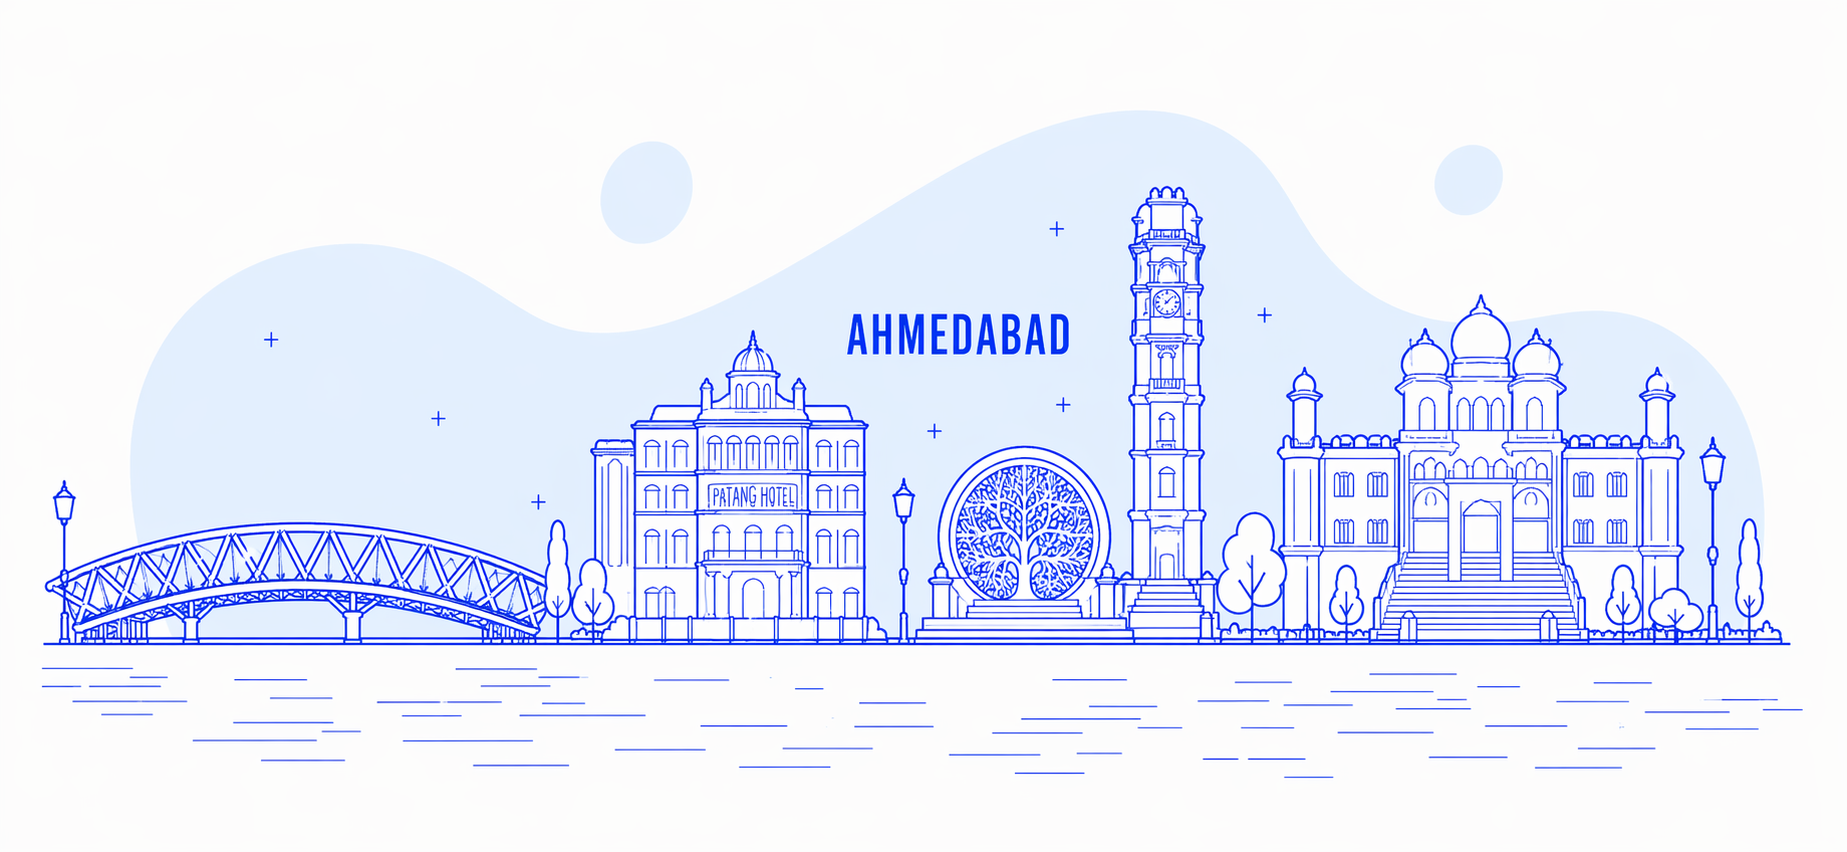
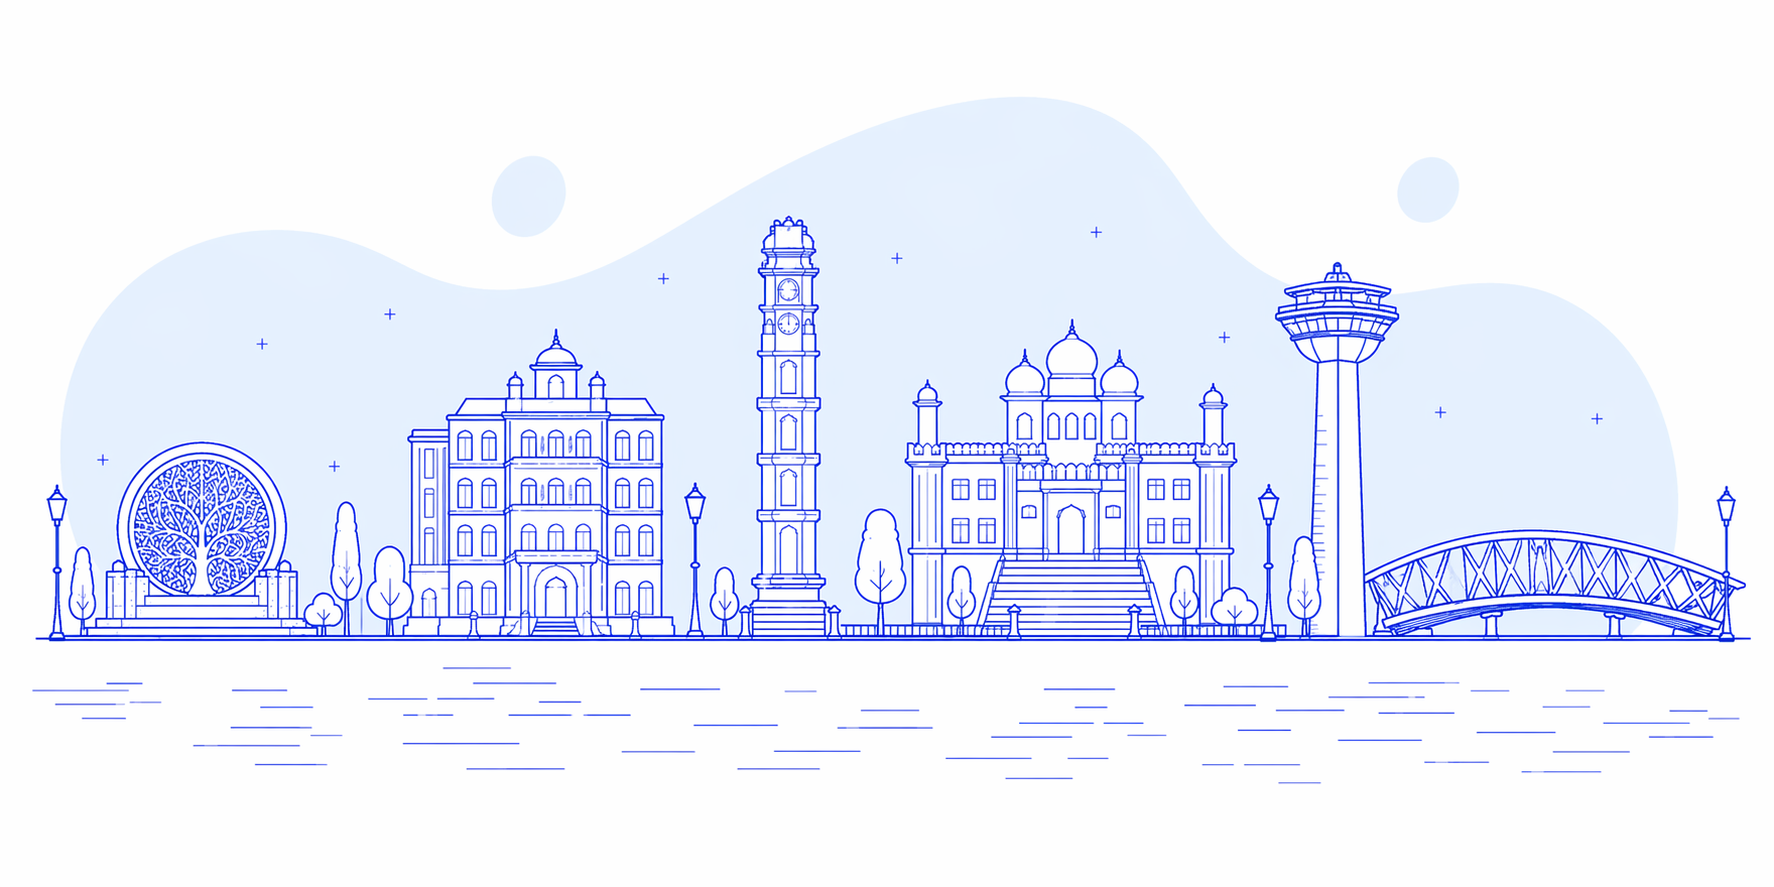
UI/UX consistency pass — 21 changes
- New Ahmedabad skyline background with mix-blend-mode:multiply
- Removed 130-line hidden legacy SVG block
- Language consistency: all section headings/CTAs/subtitles standardised to English
- Plan CTAs: Hinglish → Start Trial / Get 26-Day Plan / Get 60-Day Plan
- CTA section: fully English copy + Subscribe Now button
- Why/Health/How sections: headings and subtitles in English
- Certified Paneer consistent in plan features + FAQ
- Removed *Single meal ₹239 footnote from plans
- Footer logo: object-fit:contain with white background
- Order via → Order Via

diff --git a/index.html b/index.html
@@ -124,11 +124,13 @@
     }
     .hero-cityscape {
       position: absolute; bottom: 0; left: 0; right: 0;
-      width: 100%; height: 220px;
+      width: 100%; height: 240px;
       pointer-events: none; z-index: 0;
-      opacity: 0.42;
+      opacity: 0.48;
       object-fit: cover;
-      filter: hue-rotate(-80deg) saturate(0.8) brightness(1.1);
+      object-position: center bottom;
+      mix-blend-mode: multiply;
+      filter: hue-rotate(-75deg) saturate(0.7) brightness(1.05);
     }
     .hero-content { position: relative; z-index: 1; }
     .hero-badge-pill { display: inline-flex; align-items: center; gap: 0.5rem; background: var(--saffron-lt); color: var(--green-deep); font-size: 0.72rem; font-weight: 700; letter-spacing: 0.08em; text-transform: uppercase; padding: 0.35rem 1rem; border-radius: var(--radius-pill); margin-bottom: 1.3rem; }
@@ -364,7 +366,7 @@
     footer { background: var(--charcoal); color: rgba(255,255,255,.5); padding: 3.5rem 4rem 0; }
     .footer-inner { display: flex; flex-wrap: wrap; gap: 3rem; justify-content: space-between; padding-bottom: 3rem; }
     .footer-brand { max-width: 240px; }
-    .footer-brand img { height: 58px; width: 58px; border-radius: 50%; object-fit: cover; margin-bottom: 0.9rem; }
+    .footer-brand img { height: 58px; width: 58px; border-radius: 50%; object-fit: contain; background: white; margin-bottom: 0.9rem; }
     .footer-brand-name { font-family: 'Playfair Display SC', serif; color: var(--green-fresh); font-size: 1rem; font-weight: 700; margin-bottom: 0.3rem; }
     .footer-brand p { font-size: 0.83rem; line-height: 1.65; }
     .footer-col h4 { color: rgba(255,255,255,.9); font-size: 0.88rem; font-weight: 700; margin-bottom: 1rem; letter-spacing: 0.04em; }
@@ -548,145 +550,11 @@
 <section class="hero" aria-label="Hero section">
 
   <img class="hero-cityscape" src="/assets/ahmedabad-skyline.png" alt="" aria-hidden="true" />
-  <!-- legacy SVG removed -->
-  <svg style="display:none" viewBox="0 0 1400 280" xmlns="http://www.w3.org/2000/svg" aria-hidden="true">
-    <g stroke="#4a7a5a" fill="none" stroke-linecap="round" stroke-linejoin="round">
-      <!-- GROUND -->
-      <line x1="0" y1="272" x2="1400" y2="272" stroke-width="2"/>
-
-      <!-- ── PATANG HOTEL (left) ── -->
-      <rect x="42" y="148" width="92" height="124" stroke-width="1.5"/>
-      <!-- Kite/diamond (patang) crown -->
-      <path d="M88,52 L140,112 L88,150 L36,112 Z" stroke-width="2.2"/>
-      <!-- Mast -->
-      <line x1="88" y1="28" x2="88" y2="52" stroke-width="1.6"/>
-      <circle cx="88" cy="25" r="5" stroke-width="1.2"/>
-      <!-- Kite string floats right -->
-      <path d="M140,112 Q185,132 210,168" stroke-width="0.9" stroke-dasharray="5,4"/>
-      <!-- Hotel facade grid -->
-      <line x1="88" y1="148" x2="88" y2="272" stroke-width="0.7"/>
-      <line x1="42" y1="185" x2="134" y2="185" stroke-width="0.7"/>
-      <line x1="42" y1="215" x2="134" y2="215" stroke-width="0.7"/>
-      <line x1="42" y1="245" x2="134" y2="245" stroke-width="0.7"/>
-      <!-- Small buildings flanking hotel -->
-      <rect x="4" y="210" width="33" height="62" stroke-width="1.2"/>
-      <path d="M4,210 L20,194 L37,210" stroke-width="1"/>
-      <rect x="140" y="218" width="58" height="54" stroke-width="1.2"/>
-      <line x1="169" y1="218" x2="169" y2="272" stroke-width="0.7"/>
-      <line x1="140" y1="242" x2="198" y2="242" stroke-width="0.7"/>
-      <!-- Palm trees -->
-      <line x1="215" y1="272" x2="215" y2="228" stroke-width="1.2"/>
-      <path d="M215,228 Q196,215 180,220" stroke-width="1"/><path d="M215,228 Q234,213 250,219" stroke-width="1"/><path d="M215,228 Q208,208 213,198" stroke-width="1"/>
-      <line x1="248" y1="272" x2="248" y2="244" stroke-width="1"/>
-      <path d="M248,244 Q235,234 225,238" stroke-width="0.8"/><path d="M248,244 Q260,232 270,236" stroke-width="0.8"/>
-
-      <!-- ── CITY BUILDINGS (centre-left) ── -->
-      <rect x="270" y="135" width="68" height="137" stroke-width="1.5"/>
-      <line x1="304" y1="135" x2="304" y2="272" stroke-width="0.6"/>
-      <line x1="270" y1="162" x2="338" y2="162" stroke-width="0.6"/>
-      <line x1="270" y1="188" x2="338" y2="188" stroke-width="0.6"/>
-      <line x1="270" y1="214" x2="338" y2="214" stroke-width="0.6"/>
-      <line x1="270" y1="240" x2="338" y2="240" stroke-width="0.6"/>
-      <line x1="270" y1="264" x2="338" y2="264" stroke-width="0.6"/>
-      <rect x="278" y="122" width="52" height="13" stroke-width="1"/>
-      <!-- Dome / temple -->
-      <path d="M358,215 Q390,168 422,215" stroke-width="1.6"/>
-      <line x1="358" y1="215" x2="358" y2="272" stroke-width="1.2"/>
-      <line x1="422" y1="215" x2="422" y2="272" stroke-width="1.2"/>
-      <line x1="390" y1="168" x2="390" y2="148" stroke-width="1.2"/>
-      <path d="M384,148 Q390,138 396,148" stroke-width="1"/>
-      <line x1="390" y1="138" x2="390" y2="126" stroke-width="1"/>
-      <circle cx="390" cy="122" r="5" stroke-width="1"/>
-      <line x1="342" y1="272" x2="438" y2="272" stroke-width="1.2"/>
-      <line x1="348" y1="265" x2="432" y2="265" stroke-width="0.8"/>
-      <!-- Medium block -->
-      <rect x="445" y="192" width="52" height="80" stroke-width="1.2"/>
-      <rect x="445" y="182" width="52" height="10" stroke-width="0.8"/>
-      <line x1="471" y1="192" x2="471" y2="272" stroke-width="0.6"/>
-      <line x1="445" y1="218" x2="497" y2="218" stroke-width="0.6"/>
-      <line x1="445" y1="248" x2="497" y2="248" stroke-width="0.6"/>
-      <!-- Tall tower with antenna -->
-      <rect x="506" y="112" width="58" height="160" stroke-width="1.5"/>
-      <rect x="512" y="98" width="46" height="14" stroke-width="1"/>
-      <rect x="522" y="86" width="26" height="12" stroke-width="0.8"/>
-      <line x1="535" y1="86" x2="535" y2="68" stroke-width="1.2"/>
-      <line x1="506" y1="140" x2="564" y2="140" stroke-width="0.6"/>
-      <line x1="506" y1="168" x2="564" y2="168" stroke-width="0.6"/>
-      <line x1="506" y1="196" x2="564" y2="196" stroke-width="0.6"/>
-      <line x1="506" y1="224" x2="564" y2="224" stroke-width="0.6"/>
-      <line x1="506" y1="252" x2="564" y2="252" stroke-width="0.6"/>
-      <line x1="535" y1="112" x2="535" y2="272" stroke-width="0.6"/>
-      <!-- Tree -->
-      <line x1="578" y1="272" x2="578" y2="230" stroke-width="1.2"/>
-      <circle cx="578" cy="220" r="18" stroke-width="1"/>
-      <!-- Low pitched-roof building -->
-      <rect x="598" y="205" width="48" height="67" stroke-width="1.2"/>
-      <path d="M596,205 L622,188 L648,205" stroke-width="1.1"/>
-
-      <!-- ── MODERN TOWERS (centre-right) ── -->
-      <rect x="658" y="142" width="58" height="130" stroke-width="1.5"/>
-      <line x1="687" y1="142" x2="687" y2="272" stroke-width="0.6"/>
-      <line x1="658" y1="170" x2="716" y2="170" stroke-width="0.6"/>
-      <line x1="658" y1="198" x2="716" y2="198" stroke-width="0.6"/>
-      <line x1="658" y1="226" x2="716" y2="226" stroke-width="0.6"/>
-      <line x1="658" y1="254" x2="716" y2="254" stroke-width="0.6"/>
-      <rect x="663" y="130" width="48" height="12" stroke-width="0.8"/>
-      <rect x="668" y="118" width="38" height="12" stroke-width="0.8"/>
-      <rect x="725" y="195" width="42" height="77" stroke-width="1.2"/>
-      <line x1="746" y1="195" x2="746" y2="272" stroke-width="0.6"/>
-      <line x1="725" y1="224" x2="767" y2="224" stroke-width="0.6"/>
-      <rect x="775" y="208" width="38" height="64" stroke-width="1.2"/>
-      <path d="M773,208 L794,194 L815,208" stroke-width="1"/>
-
-      <!-- ── ATAL BRIDGE (right zone) ── -->
-      <path d="M830,252 Q918,125 1006,252" stroke-width="2.2"/>
-      <line x1="850" y1="239" x2="848" y2="258" stroke-width="0.9"/>
-      <line x1="869" y1="219" x2="868" y2="258" stroke-width="0.9"/>
-      <line x1="890" y1="199" x2="890" y2="258" stroke-width="0.9"/>
-      <line x1="912" y1="184" x2="913" y2="258" stroke-width="0.9"/>
-      <line x1="934" y1="184" x2="934" y2="258" stroke-width="0.9"/>
-      <line x1="955" y1="199" x2="956" y2="258" stroke-width="0.9"/>
-      <line x1="975" y1="219" x2="976" y2="258" stroke-width="0.9"/>
-      <line x1="993" y1="240" x2="994" y2="258" stroke-width="0.9"/>
-      <line x1="830" y1="258" x2="1006" y2="258" stroke-width="1.6"/>
-      <line x1="830" y1="263" x2="1006" y2="263" stroke-width="0.8"/>
-
-      <!-- ── RIVERFRONT PROMENADE ── -->
-      <line x1="816" y1="266" x2="1396" y2="266" stroke-width="1.6"/>
-      <!-- Lamp posts -->
-      <line x1="1012" y1="236" x2="1012" y2="266" stroke-width="1"/>
-      <path d="M1012,236 Q1024,224 1030,234" stroke-width="0.9"/>
-      <circle cx="1030" cy="233" r="3.5" stroke-width="0.9" fill="none"/>
-      <line x1="1088" y1="236" x2="1088" y2="266" stroke-width="1"/>
-      <path d="M1088,236 Q1100,224 1106,234" stroke-width="0.9"/>
-      <circle cx="1106" cy="233" r="3.5" stroke-width="0.9" fill="none"/>
-      <line x1="1164" y1="236" x2="1164" y2="266" stroke-width="1"/>
-      <path d="M1164,236 Q1176,224 1182,234" stroke-width="0.9"/>
-      <circle cx="1182" cy="233" r="3.5" stroke-width="0.9" fill="none"/>
-      <!-- Stepped ghats -->
-      <line x1="1025" y1="270" x2="1220" y2="270" stroke-width="1.2"/>
-      <line x1="1038" y1="276" x2="1208" y2="276" stroke-width="1.2"/>
-      <!-- Buildings on far bank -->
-      <rect x="1020" y="196" width="42" height="70" stroke-width="1"/>
-      <rect x="1072" y="180" width="58" height="86" stroke-width="1.2"/>
-      <line x1="1101" y1="180" x2="1101" y2="266" stroke-width="0.6"/>
-      <line x1="1072" y1="206" x2="1130" y2="206" stroke-width="0.6"/>
-      <line x1="1072" y1="232" x2="1130" y2="232" stroke-width="0.6"/>
-      <rect x="1140" y="198" width="46" height="68" stroke-width="1"/>
-      <rect x="1196" y="212" width="38" height="54" stroke-width="1"/>
-      <rect x="1244" y="204" width="44" height="62" stroke-width="1"/>
-      <rect x="1298" y="218" width="34" height="48" stroke-width="0.8"/>
-      <rect x="1340" y="210" width="38" height="56" stroke-width="0.8"/>
-      <!-- Sabarmati River waves -->
-      <path d="M820,278 Q868,270 916,278 Q964,286 1012,278 Q1060,270 1108,278 Q1156,286 1204,278 Q1252,270 1300,278 Q1348,284 1396,278" stroke-width="1.3"/>
-      <path d="M820,286 Q872,280 924,286 Q976,292 1028,286 Q1080,280 1132,286 Q1184,292 1236,286 Q1288,280 1340,286 Q1370,289 1396,286" stroke-width="0.9"/>
-    </g>
-  </svg>
 
   <div class="hero-content">
     <div class="hero-badge-pill">
       <svg width="14" height="14" viewBox="0 0 24 24" fill="none" stroke="currentColor" stroke-width="2.5"><path d="M12 2l3.09 6.26L22 9.27l-5 4.87 1.18 6.88L12 17.77l-6.18 3.25L7 14.14 2 9.27l6.91-1.01L12 2z"/></svg>
-      Ahmedabad ka #1 Pure Veg Salad Cloud Kitchen
+      Ahmedabad's #1 Pure Veg Salad Cloud Kitchen
     </div>
     <h1>
       Healthy Eating,
@@ -724,7 +592,7 @@
 <div class="platform-bar" id="order-platforms">
   <span class="pbar-label">
     <svg width="16" height="16" viewBox="0 0 24 24" fill="none" stroke="#52b788" stroke-width="2.5"><circle cx="9" cy="21" r="1"/><circle cx="20" cy="21" r="1"/><path d="M1 1h4l2.68 13.39a2 2 0 0 0 2 1.61h9.72a2 2 0 0 0 2-1.61L23 6H6"/></svg>
-    Order via
+    Order Via
   </span>
   <a href="https://link.zomato.com/xqzv/rshare?id=4824355730563e1b" class="pbar-btn pbar-zomato" target="_blank" rel="noopener">
     <svg width="18" height="18" viewBox="0 0 24 24" fill="white"><rect width="24" height="24" rx="4" fill="#CB202D"/><text x="12" y="17" text-anchor="middle" font-size="14" font-weight="900" font-family="Arial" fill="white">Z</text></svg>
@@ -756,7 +624,7 @@
     <!-- Trial -->
     <div class="plan-card">
       <div class="plan-title">Trial Pack</div>
-      <div class="plan-hint">Pehle try karo, phir decide karo</div>
+      <div class="plan-hint">Try first, decide later</div>
       <div class="plan-price">₹999 <span class="plan-period">/ 5 days</span></div>
       <div class="plan-pills">
         <span class="pill pill-day">₹200 / day</span>
@@ -770,7 +638,7 @@
         </li>
         <li class="plan-feature">
           <svg class="plan-check" width="16" height="16" viewBox="0 0 24 24" fill="none" stroke="currentColor" stroke-width="2.5"><polyline points="20 6 9 17 4 12"/></svg>
-          Jain Dairy original paneer
+          Certified Paneer
         </li>
         <li class="plan-feature">
           <svg class="plan-check" width="16" height="16" viewBox="0 0 24 24" fill="none" stroke="currentColor" stroke-width="2.5"><polyline points="20 6 9 17 4 12"/></svg>
@@ -785,7 +653,7 @@
           Full refund if not satisfied
         </li>
       </ul>
-      <a href="https://www.nosh7.com/order" class="btn btn-primary btn-block" target="_blank" rel="noopener">Trial Shuru Karo &rarr;</a>
+      <a href="https://www.nosh7.com/order" class="btn btn-primary btn-block" target="_blank" rel="noopener">Start Trial &rarr;</a>
     </div>
 
     <!-- 26-day -->
@@ -825,7 +693,7 @@
           Jain option available
         </li>
       </ul>
-      <a href="https://www.nosh7.com/order" class="btn btn-saffron btn-block" target="_blank" rel="noopener">26-Day Plan Lo &rarr;</a>
+      <a href="https://www.nosh7.com/order" class="btn btn-saffron btn-block" target="_blank" rel="noopener">Get 26-Day Plan &rarr;</a>
     </div>
 
     <!-- 60-day -->
@@ -861,21 +729,18 @@
           Priority WhatsApp support
         </li>
       </ul>
-      <a href="https://www.nosh7.com/order" class="btn btn-primary btn-block" target="_blank" rel="noopener">60-Day Plan Lo &rarr;</a>
+      <a href="https://www.nosh7.com/order" class="btn btn-primary btn-block" target="_blank" rel="noopener">Get 60-Day Plan &rarr;</a>
     </div>
 
   </div>
-  <p style="text-align:center; margin-top:1.5rem; font-size:0.83rem; color:var(--muted);">
-    *Single meal ₹239 | Free delivery across Ahmedabad | All orders at
-    <a href="https://www.nosh7.com/order" style="color:var(--green-mid); font-weight:700;">nosh7.com/order</a>
-  </p>
+  <p style="text-align:center; margin-top:1.5rem; font-size:0.83rem; color:var(--muted);">Free delivery across Ahmedabad · All orders at <a href="https://www.nosh7.com/order" style="color:var(--green-mid); font-weight:700;">nosh7.com/order</a></p>
 </section>
 
 <!-- ── HOW IT WORKS ── -->
 <section class="how-section" aria-labelledby="how-title">
   <span class="section-tag">How It Works</span>
   <h2 class="section-title" id="how-title">3 Easy Steps to<br/>Healthy Eating</h2>
-  <p class="section-sub">Subscription shuru karna sirf teen steps mein: choose, order, receive.</p>
+  <p class="section-sub">Start in just 3 easy steps — choose, order, and receive fresh daily.</p>
   <div class="how-grid">
     <div class="how-step">
       <div class="step-icon">
@@ -904,8 +769,8 @@
 <!-- ── WHY NOSH7 ── -->
 <section class="why-section" aria-labelledby="why-title">
   <span class="section-tag">Why NOSH7?</span>
-  <h2 class="section-title" id="why-title">Kya Hai Jo NOSH7 Ko<br/>Alag Banata Hai?</h2>
-  <p class="section-sub">Ahmedabad mein healthy khana easy nahi tha. Phir NOSH7 aaya.</p>
+  <h2 class="section-title" id="why-title">What Makes NOSH7<br/>Different?</h2>
+  <p class="section-sub">Eating healthy in Ahmedabad was never this easy.</p>
   <div class="why-grid">
 
     <div class="why-card">
@@ -974,8 +839,8 @@
 <!-- ── HEALTH PLANS ── -->
 <section class="health-section" id="health" aria-labelledby="health-title">
   <span class="section-tag">Condition-Specific Plans</span>
-  <h2 class="section-title" id="health-title">Aapki Health Condition Ke Liye<br/>Customized Plan</h2>
-  <p class="section-sub">Apna health goal batao. Hum har meal aapke liye customize karenge. WhatsApp pe connect karo.</p>
+  <h2 class="section-title" id="health-title">Plans Designed For<br/>Your Health Goal</h2>
+  <p class="section-sub">Tell us your goal — every meal is personalised for your condition. Connect on WhatsApp.</p>
   <div class="health-grid">
 
     <a href="https://wa.me/919712989498?text=Hi+Team+Nosh7!+I+am+interested+in+Weight+Loss+Plan." class="health-card" style="border-color:#ffe0cc;">
@@ -1097,7 +962,7 @@
       </details>
       <details>
         <summary>Do you have Jain options? <svg class="faq-icon" width="16" height="16" viewBox="0 0 24 24" fill="none" stroke="currentColor" stroke-width="2.5"><line x1="12" y1="5" x2="12" y2="19"/><line x1="5" y1="12" x2="19" y2="12"/></svg></summary>
-        <p>Yes! Jain Dairy original paneer used. Root vegetables, onion, and garlic can be excluded. Select Jain option at time of purchase.</p>
+        <p>Yes! Certified Paneer used. Root vegetables, onion, and garlic can be excluded. Select Jain option at time of purchase.</p>
       </details>
       <details>
         <summary>What is included in the 5-day trial? <svg class="faq-icon" width="16" height="16" viewBox="0 0 24 24" fill="none" stroke="currentColor" stroke-width="2.5"><line x1="12" y1="5" x2="12" y2="19"/><line x1="5" y1="12" x2="19" y2="12"/></svg></summary>
@@ -1157,11 +1022,11 @@
 
 <!-- ── CTA ── -->
 <section class="cta-section" aria-labelledby="cta-title">
-  <h2 id="cta-title">Healthy Life Ka Pehla Step<br/>Aaj Hi Lo</h2>
-  <p>5-day trial sirf ₹999. Cancel karo kabhi bhi. Sirf fresh. Sirf NOSH7.</p>
+  <h2 id="cta-title">Take The First Step<br/>Towards A Healthier Life</h2>
+  <p>5-day trial at ₹999. Cancel anytime. Always fresh. Always NOSH7.</p>
   <div class="cta-btns">
     <a href="https://www.nosh7.com/order" class="btn btn-saffron" target="_blank" rel="noopener">
-      Abhi Subscribe Karo
+      Subscribe Now
       <svg width="16" height="16" viewBox="0 0 24 24" fill="none" stroke="currentColor" stroke-width="2.5"><line x1="5" y1="12" x2="19" y2="12"/><polyline points="12 5 19 12 12 19"/></svg>
     </a>
     <a href="https://link.zomato.com/xqzv/rshare?id=4824355730563e1b" class="btn pbar-zomato" style="padding:0.85rem 2rem;" target="_blank" rel="noopener">Order on Zomato</a>
